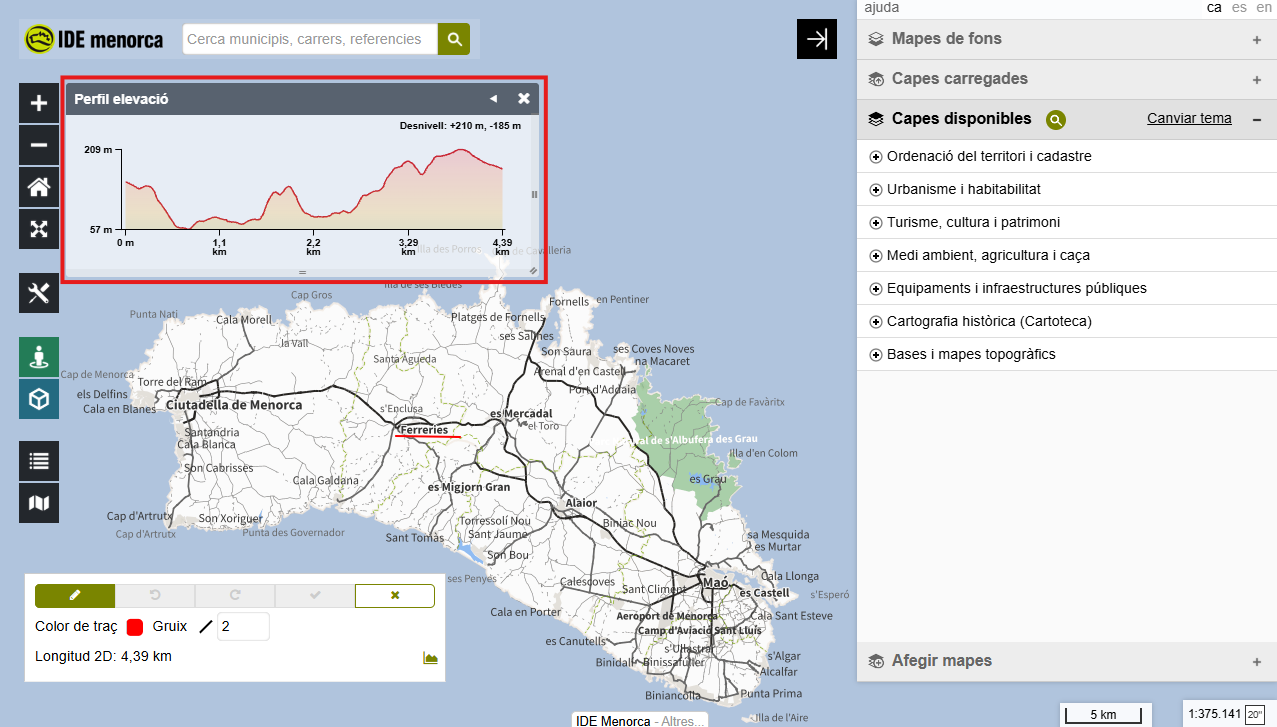
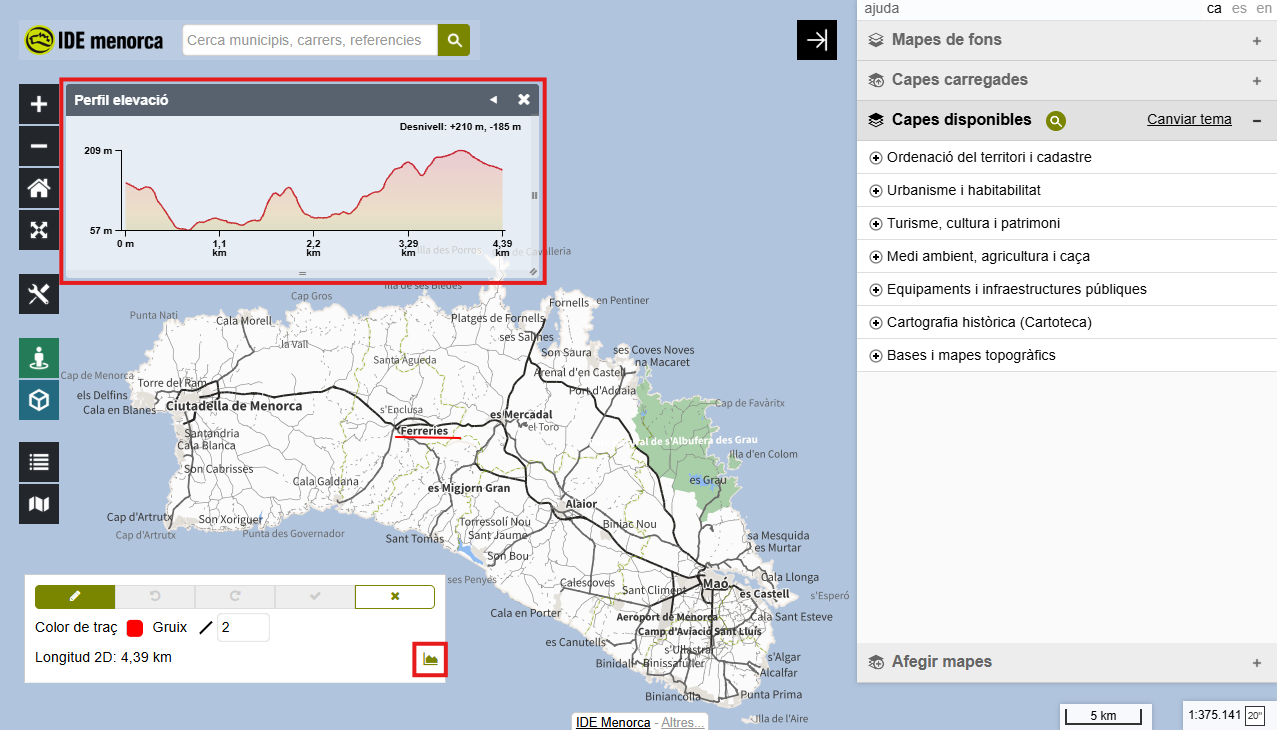
Canvia l'exercici de la 4.3 per una comparació de superfícies
Idea d'en Marc: mesurar el pavelló del Menorca Bàsquet i el recinte de Torre
d'en Galmés, i respondre quants pavellons hi caben.

Millora l'exercici de la platja de dues maneres. Les dues superfícies estan
ben delimitades, o sigui que tothom mesura el mateix; i la resposta és una
proporció, que surt gairebé igual encara que cadascú dibuixi el polígon una
mica diferent. Mesurar la sorra d'una platja no tenia cap d'aquestes dues
coses.

De passada recupera el contrast d'elevació entre el port de Maó i el turó del
poblat, i deixa el perfil per al final.

S'hi afegeix una tercera captura, la del polígon mesurat.

diff --git a/docs/formacio/basic/modul-4-visor/03-mesurar-dibuixar.md b/docs/formacio/basic/modul-4-visor/03-mesurar-dibuixar.md
@@ -37,20 +37,35 @@ coordenades, distàncies i superfícies.
 5. **Mesurar una superfície.** Tria la pestanya **polígons** i dibuixa igual
    que amb les línies. En tancar la forma tens l'**àrea** i el **perímetre**.
 
+    !!! note "Captura pendent — `img/43-poligon-area.png`"
+        Un polígon tancat sobre un edifici ben delimitat, amb l'àrea i el
+        perímetre a la vista al panell de l'eina.
+
+        Peu de foto previst: *En tancar el polígon, el visor en dóna l'àrea i el perímetre.*
+
 6. **Esborrar el que has dibuixat.** La **paperera** esborra tot el dibuix, amb
    confirmació prèvia. La **goma** esborra només els elements que tinguis
    seleccionats.
 
 ## Exercici pràctic
 
-Seguim a **Cala Galdana**.
+**Quants camps de bàsquet caben dins d'un poblat talaiòtic?**
 
-1. Dibuixa un **punt** sobre la platja i apunta'n les coordenades i l'elevació.
-2. Amb una **línia**, mesura la platja de punta a punta.
-3. Amb un **polígon**, mesura la superfície de sorra.
-4. Traça una línia des de la platja **barranc d'Algendar amunt** i prem el botó
-   del perfil per veure'n el desnivell.
-5. Esborra-ho tot amb la paperera.
+1. Situa't sobre el **pavelló del Menorca Bàsquet**, a Maó. Dibuixa-hi un
+   **punt** i apunta'n les coordenades i l'elevació.
+2. Amb un **polígon**, mesura la superfície del pavelló.
+3. Vés a **Torre d'en Galmés**, a Alaior, i dibuixa-hi un **punt**: compara'n
+   l'elevació amb la de Maó.
+4. Amb un **polígon**, mesura el recinte del poblat.
+5. Divideix una superfície per l'altra: **quants pavellons hi caben?**
+6. Traça una **línia** que travessi el turó del poblat i prem el botó del
+   perfil per veure'n el relleu.
+7. Esborra-ho tot amb la paperera.
+
+!!! tip "Per què comparar i no només mesurar"
+    Cadascú dibuixarà el polígon una mica diferent i els metres quadrats no
+    sortiran idèntics. La proporció entre les dues superfícies, en canvi, surt
+    gairebé igual per a tothom: per això la comparació diu més que la xifra.
 
 ---
 
